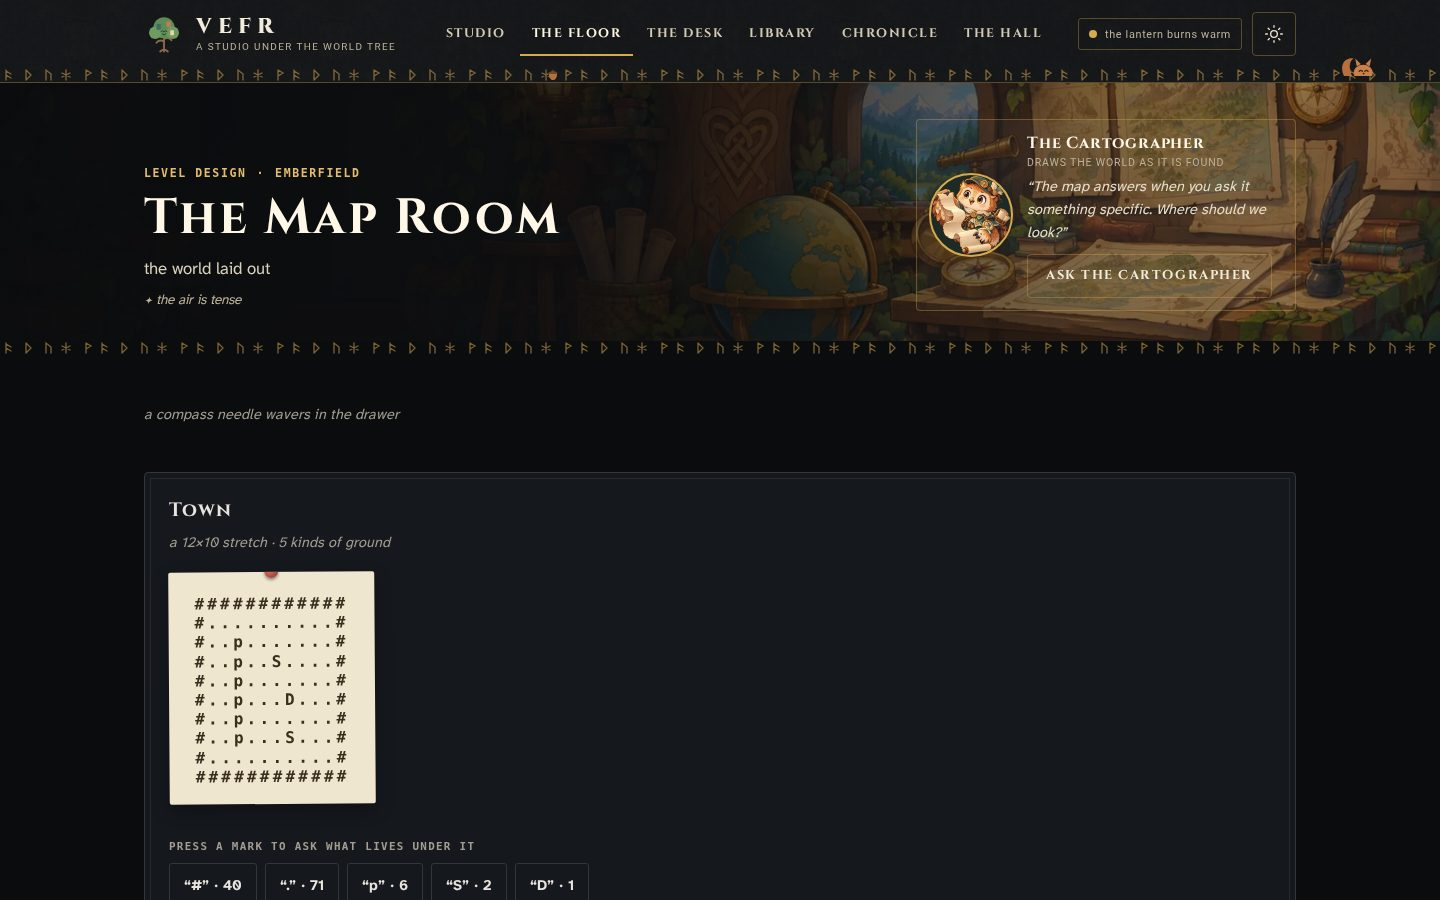
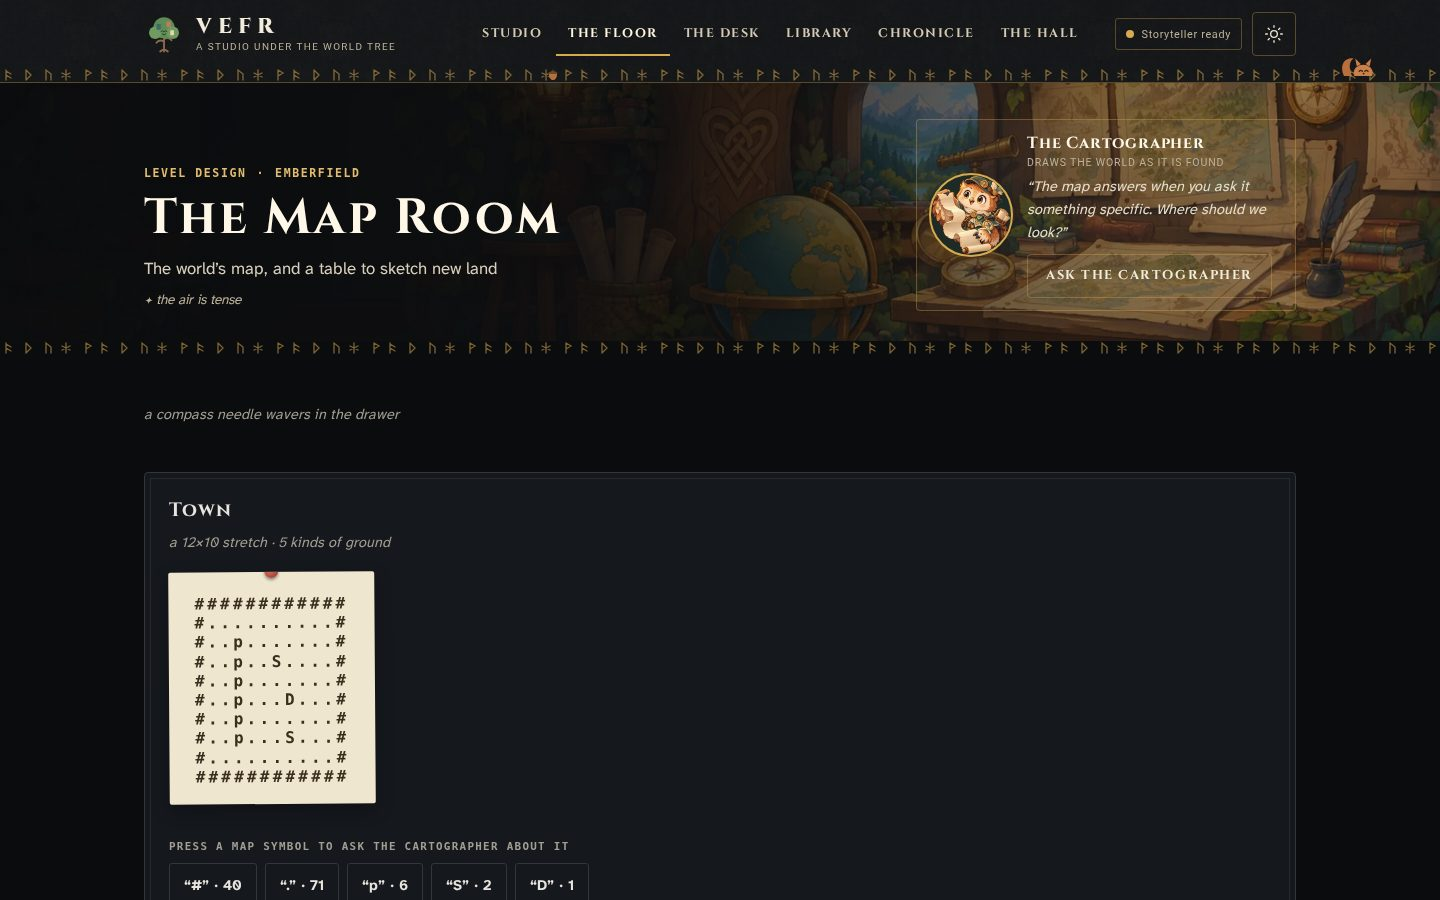
docs(screenshots): the redesigned player, and current studio wording (#51)
capture-screenshots.py follows the new player: title, Before you play,
and in game (desktop and phone) with a whisper in the speech box. The
old play-surface shots are gone. Studio shots recaptured for the
language pass.

diff --git a/scripts/capture-screenshots.py b/scripts/capture-screenshots.py
@@ -108,24 +108,45 @@ def capture_studio(browser, shots):
 
 
 def capture_player(browser, shots):
-    """The woven single-file player: title card and play surface."""
+    """The woven single-file player: title, first run, and in game."""
     woven = sorted((ROOT / "dist").glob("sample-world-*.html"))
     if not woven:
         print("  skip player: no woven HTML in dist/ (run ratatoskr weave first)")
         return
+    uri = woven[-1].as_uri()
+
+    def begin(page):
+        page.goto(uri, wait_until="networkidle", timeout=20000)
+        page.wait_for_timeout(800)
+
     for scheme in ("dark", "light"):
         suffix = "" if scheme == "dark" else "-light"
         page = browser.new_page(viewport={"width": 1280, "height": 900}, color_scheme=scheme)
-        page.goto(woven[-1].as_uri(), wait_until="networkidle", timeout=20000)
-        page.wait_for_timeout(1500)
+        begin(page)
         page.screenshot(path=str(OUT / f"export-title-card{suffix}.jpg"), **SHOT)
-        shots.append(("The shareable file", f"export-title-card{suffix}.jpg", f"The woven player's title card ({scheme})"))
-        enter = page.locator("#ts-enter")
-        if enter.count() and enter.first.is_visible():
-            enter.first.click()
-            page.wait_for_timeout(1500)
-            page.screenshot(path=str(OUT / f"export-play-surface{suffix}.jpg"), **SHOT)
-            shots.append(("The shareable file", f"export-play-surface{suffix}.jpg", f"The woven player, ready to play ({scheme})"))
+        shots.append(("The shareable file", f"export-title-card{suffix}.jpg", f"The title screen ({scheme})"))
+        page.click("#ts-enter")
+        page.wait_for_timeout(400)
+        if page.is_visible("#config"):
+            page.screenshot(path=str(OUT / f"export-before-play{suffix}.jpg"), **SHOT)
+            shots.append(("The shareable file", f"export-before-play{suffix}.jpg", f"Before you play: offline, or bring a model ({scheme})"))
+        page.close()
+
+    # In game: the view fills the screen; a whisper lands in the speech box.
+    for tag, vp, touch in (("", {"width": 1280, "height": 900}, False),
+                           ("-phone", {"width": 390, "height": 844}, True)):
+        page = browser.new_page(viewport=vp, color_scheme="dark", has_touch=touch, is_mobile=touch)
+        begin(page)
+        page.click("#ts-enter")
+        page.wait_for_timeout(400)
+        if page.is_visible("#cfg-offline"):
+            page.click("#cfg-offline")
+            page.wait_for_timeout(800)
+        page.click("#whisper")
+        page.wait_for_timeout(800)
+        page.screenshot(path=str(OUT / f"export-in-game{tag}.jpg"), **SHOT)
+        where = "on a phone" if touch else "on a computer"
+        shots.append(("The shareable file", f"export-in-game{tag}.jpg", f"In game {where}: speech box, health, mood and actions over the map"))
         page.close()
 
 

diff --git a/docs/screenshots/README.md b/docs/screenshots/README.md
@@ -40,5 +40,6 @@ page together.
 
 | | |
 |---|---|
-| ![The woven player's title card (dark)](export-title-card.jpg)<br>The woven player's title card (dark) | ![The woven player, ready to play (dark)](export-play-surface.jpg)<br>The woven player, ready to play (dark) |
-| ![The woven player's title card (light)](export-title-card-light.jpg)<br>The woven player's title card (light) | ![The woven player, ready to play (light)](export-play-surface-light.jpg)<br>The woven player, ready to play (light) |
+| ![The title screen (dark)](export-title-card.jpg)<br>The title screen (dark) | ![Before you play: offline, or bring a model (dark)](export-before-play.jpg)<br>Before you play: offline, or bring a model (dark) |
+| ![The title screen (light)](export-title-card-light.jpg)<br>The title screen (light) | ![Before you play: offline, or bring a model (light)](export-before-play-light.jpg)<br>Before you play: offline, or bring a model (light) |
+| ![In game on a computer: speech box, health, mood and actions over the map](export-in-game.jpg)<br>In game on a computer: speech box, health, mood and actions over the map | ![In game on a phone: speech box, health, mood and actions over the map](export-in-game-phone.jpg)<br>In game on a phone: speech box, health, mood and actions over the map |
